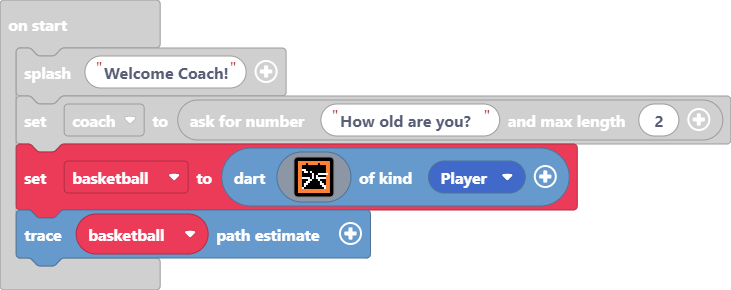
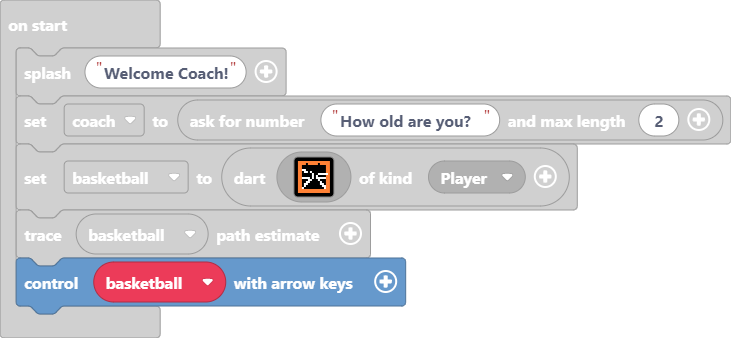
Update main.blocks, main.ts

diff --git a/main.ts b/main.ts
@@ -28,6 +28,7 @@ let basketball = darts.create(img`
     4 4 4 4 4 4 4 4 4 4 4 4 4 4 4 4 
     `, SpriteKind.Player)
 basketball.setTrace()
+basketball.controlWithArrowKeys()
 game.onUpdateInterval(5000, function () {
     defense = sprites.createProjectileFromSide(img`
         . . . . . . . . . . . . . . . . 
